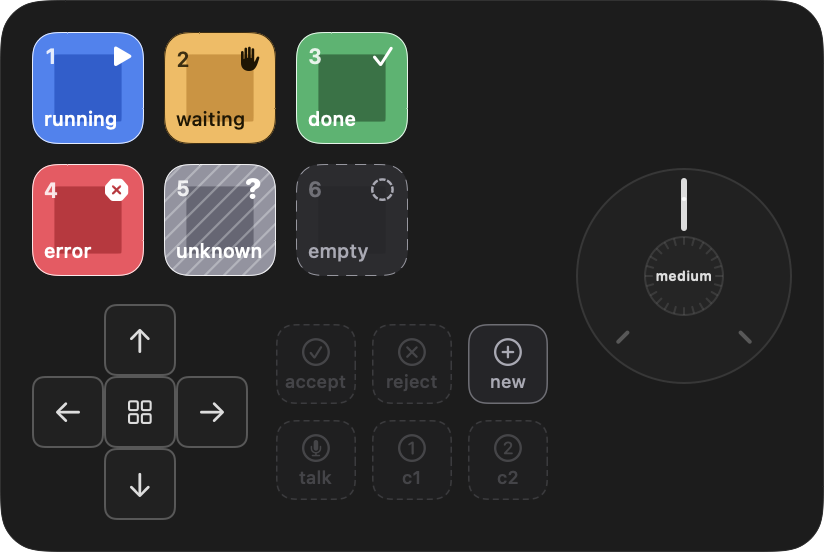
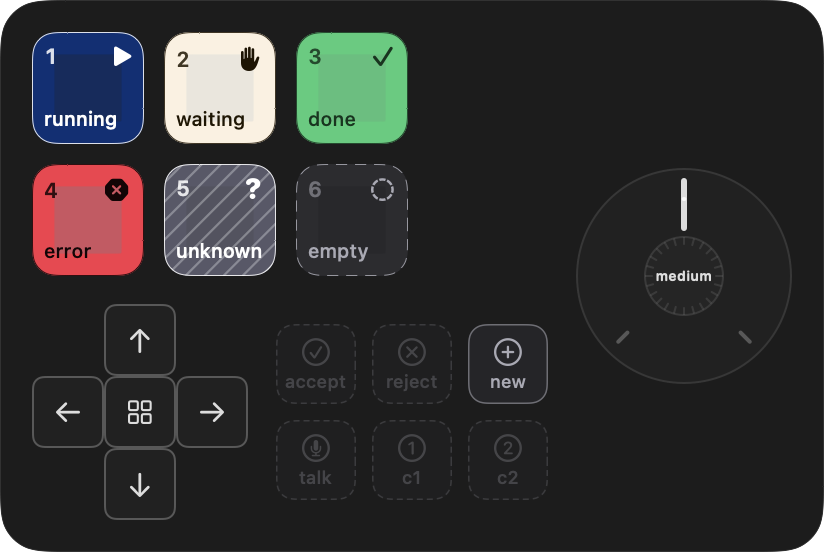
Fix the isochromatic state palette, fills and glows
The lit states were indistinguishable by luminance: complete vs error measured
1.00:1, so done and failed were the same tile in greyscale, to a deuteranope,
and in peripheral vision - which is the product's whole thesis. Cause was
structural: each state was tuned so its own label cleared 4.5:1, which pushed
every lit fill onto one luminance. Each key was right in isolation; the set was
never checked as a set.

Fills now sit on a 1.8 ladder. Worst lit pair went 1.00 -> 1.81 in all four
appearances, with the 4.5 label floor untouched (minimum 4.79).

Fixing the fills alone did NOT fix the defect. AgentKeyView paints stateGlow
across ~97% of the key face, and the glows were themselves a flat set within
1.1:1, so they repainted the new ladder flat. Measured from rendered pixels:
new fills with old glows still scored 1.05 light / 1.02 dark - no improvement.
Glows are now on the same ladder: 1.63 / 1.55 measured, 1.81 modelled.

The all-pairs sweep is generated from litStates so an eighth state joins
automatically. idle is excluded because 1.8^6 exceeds the available luminance
range; unassigned keeps its own separate guard against unknown. Both
exclusions are documented rather than silent.

idle also fixed: 1.17 -> 1.85 against the light panel.

Changed region(s): [[0.0303, 0.0616, 0.3337, 0.5236], [0.3641, 0.0616, 0.4854, 0.2464]]

diff --git a/Sources/VirtualCodexMicro/Support/StateColors.swift b/Sources/VirtualCodexMicro/Support/StateColors.swift
@@ -133,6 +133,15 @@ public enum StateColors {
         /// Text and icon colour, legible on `composedKeyFill`.
         public let keyLabel: RGB
         /// Halo colour. Carries the state at a glance; never the only signal.
+        ///
+        /// Its luminance is pegged one small step above its own `keyFill`, so the
+        /// glows form the same ladder the fills do. That is not decoration: the
+        /// key draws this as a fat blurred inner border covering most of the face
+        /// (`AgentKeyView`), so a set of glows at one luminance repaints the
+        /// ladder flat no matter how well separated the fills are. The glows used
+        /// to be exactly that — bright saturated variants within 1.1:1 of each
+        /// other — which is why the rendered keys measured 1.05:1 apart while the
+        /// fills measured further. Hue is the state's own; only lightness moved.
         public let stateGlow: RGB
         /// Border stroke colour.
         public let keyEdge: RGB
@@ -198,7 +207,7 @@ public enum StateColors {
                 darkFill: RGB(0xE4E4E8), darkLabel: RGB(0x141418),
                 lightContrastFill: RGB(0xACACAC), lightContrastLabel: RGB(0x000000),
                 darkContrastFill: RGB(0xD3D3D3), darkContrastLabel: RGB(0x000000),
-                lightGlow: RGB(0xFFFFFF), darkGlow: RGB(0xFFFFFF),
+                lightGlow: RGB(0xB9B9B9), darkGlow: RGB(0xD4D4D4),
                 restingFillOpacity: 0.85, restingGlowOpacity: 0.55, restingGlowRadius: 9
             )
 
@@ -211,7 +220,7 @@ public enum StateColors {
                 darkFill: RGB(0x0D2C63), darkLabel: RGB(0xFFFFFF),
                 lightContrastFill: RGB(0x01429C), lightContrastLabel: RGB(0xFFFFFF),
                 darkContrastFill: RGB(0x00317A), darkContrastLabel: RGB(0xFFFFFF),
-                lightGlow: RGB(0x2E7BFF), darkGlow: RGB(0x4A90FF),
+                lightGlow: RGB(0x0046BD), darkGlow: RGB(0x00317F),
                 restingFillOpacity: 0.92, restingGlowOpacity: 0.75, restingGlowRadius: 12
             )
 
@@ -225,7 +234,7 @@ public enum StateColors {
                 darkFill: RGB(0x4DD384), darkLabel: RGB(0x0D351D),
                 lightContrastFill: RGB(0x00B254), lightContrastLabel: RGB(0x002A14),
                 darkContrastFill: RGB(0x3ACF77), darkContrastLabel: RGB(0x000000),
-                lightGlow: RGB(0x25A55C), darkGlow: RGB(0x3ED27C),
+                lightGlow: RGB(0x2ABD6A), darkGlow: RGB(0x38D178),
                 restingFillOpacity: 0.90, restingGlowOpacity: 0.70, restingGlowRadius: 10
             )
 
@@ -240,7 +249,7 @@ public enum StateColors {
                 darkFill: RGB(0xFCF6EC), darkLabel: RGB(0x201502),
                 lightContrastFill: RGB(0xFEC76E), lightContrastLabel: RGB(0x000000),
                 darkContrastFill: RGB(0xFFF2D6), darkContrastLabel: RGB(0x000000),
-                lightGlow: RGB(0xFFB44A), darkGlow: RGB(0xFFC15C),
+                lightGlow: RGB(0xFFD8A2), darkGlow: RGB(0xFFF3E1),
                 restingFillOpacity: 0.92, restingGlowOpacity: 0.85, restingGlowRadius: 13
             )
 
@@ -255,7 +264,7 @@ public enum StateColors {
                 darkFill: RGB(0xDE5766), darkLabel: RGB(0x140406),
                 lightContrastFill: RGB(0xDE0015), lightContrastLabel: RGB(0xFFFFFF),
                 darkContrastFill: RGB(0xFE2F42), darkContrastLabel: RGB(0x000000),
-                lightGlow: RGB(0xE83A4C), darkGlow: RGB(0xFF5566),
+                lightGlow: RGB(0xE6273B), darkGlow: RGB(0xFF3145),
                 restingFillOpacity: 0.92, restingGlowOpacity: 0.85, restingGlowRadius: 13
             )
 
@@ -275,7 +284,7 @@ public enum StateColors {
                 darkFill: RGB(0x565664), darkLabel: RGB(0xFFFFFF),
                 lightContrastFill: RGB(0x1C1C21), lightContrastLabel: RGB(0xFFFFFF),
                 darkContrastFill: RGB(0x5B5B69), darkContrastLabel: RGB(0xFFFFFF),
-                lightGlow: RGB(0x9A9AA8), darkGlow: RGB(0xB0B0BE),
+                lightGlow: RGB(0x27272E), darkGlow: RGB(0x5B5B6E),
                 restingFillOpacity: 0.94, restingGlowOpacity: 0.60, restingGlowRadius: 8
             )
         }
